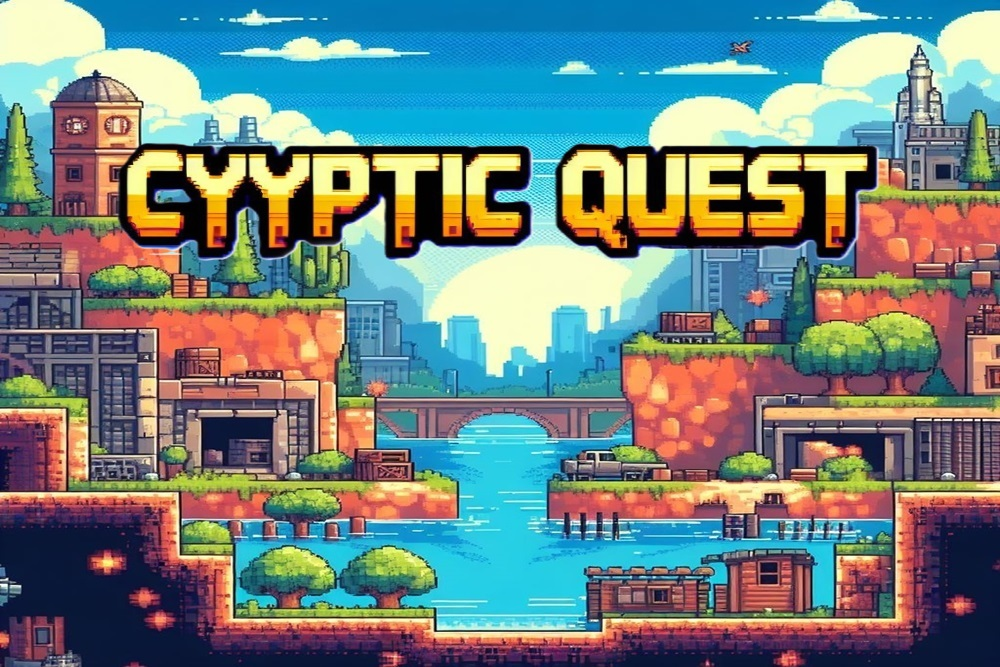
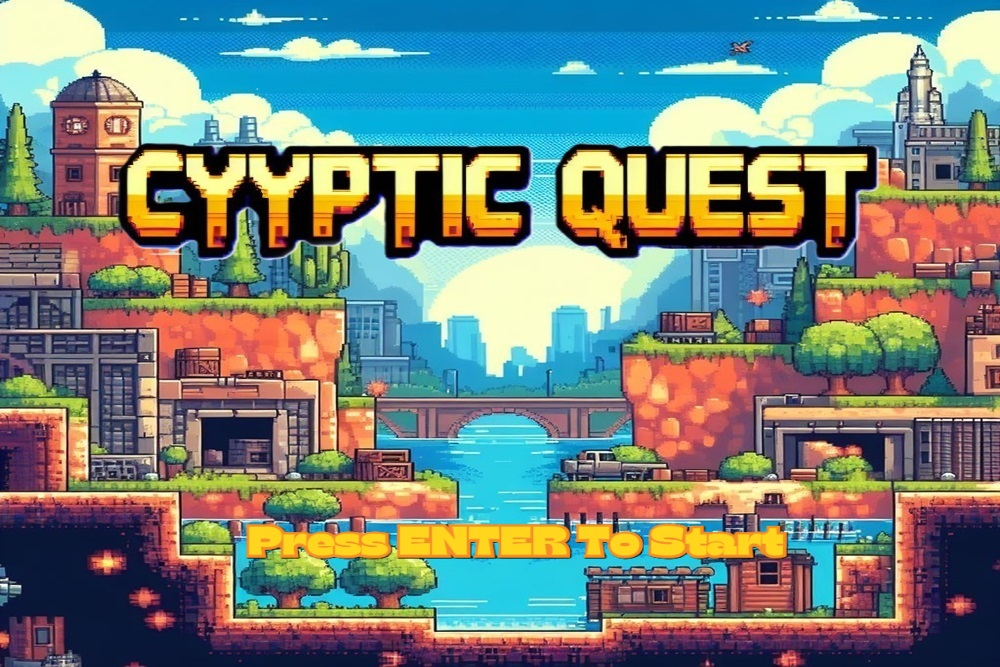
scrolling map update and improved loading screen

Changed region(s): [[0.248, 0.7796, 0.806, 0.8396]]

diff --git a/Sketch.java b/Sketch.java
@@ -12,15 +12,13 @@ public class Sketch extends PApplet {
   float mapPosY = fltPlayerY;
   int intSpeedX = 0;
   int intSpeedY = 0;
-  int intborderX = 200;
-  int intborderY = 160;
+  int intborderX = 300;
+  int intborderY = 220;
 
-  int[][] collisionMap1 = new int[3001][3001];
-  int[][] collisionMap2 = new int[3001][3001];
-  int[][] collisionMap3 = new int[3001][3001];
-
+  
   PImage imgPlayer;
   PImage imgBackground;
+  PImage imgPermBackground; 
   PImage imglvl1;
   PImage imglvl2;
 
@@ -47,6 +45,7 @@ public class Sketch extends PApplet {
 
     imgBackground = loadImage("loadingScreen.jpg");
     imglvl1 = loadImage("lvl1.png");
+    imgPermBackground = loadImage("permanentBackground.jpg");
 
   }
 
@@ -67,8 +66,8 @@ public class Sketch extends PApplet {
       if (boolInitialize) {
         fltPlayerX = 800;
         fltPlayerY = 300;
-        mapPosX = 800;
-        mapPosY = 300;
+        mapPosX = 500;
+        mapPosY = 200;
         boolInitialize = false;
       }
       movement();
@@ -92,23 +91,23 @@ public class Sketch extends PApplet {
 
     if (Math.abs(width - fltPlayerX) < intborderX) {
       mapPosX -= intSpeedX;
-      mapPosX = Math.max(width - 750, mapPosX);
+      mapPosX = Math.max(width - 850, mapPosX);
     }
     if (Math.abs(height - fltPlayerY) < intborderY) {
       mapPosY -= intSpeedY;
-      mapPosY = Math.max(height - 750, mapPosY);
+      mapPosY = Math.max(height - 800, mapPosY);
     }
     if (fltPlayerX < intborderX) {
       mapPosX -= intSpeedX;
-      mapPosX = Math.min(750, mapPosX);
+      mapPosX = Math.min(850, mapPosX);
     }
     if (fltPlayerY < intborderY) {
       mapPosY -= intSpeedY;
-      mapPosY = Math.min(750, mapPosY);
+      mapPosY = Math.min(800, mapPosY);
     }
-
+    image(imgPermBackground , 0 , 0 );
     image(imgMap, mapPosX - 750, mapPosY - 750);
-    image(imgPlayer, fltPlayerX - 25, fltPlayerY - 37);
+    image(imgPlayer, fltPlayerX - 30, fltPlayerY - 30);
   }
 
   /**
@@ -125,24 +124,24 @@ public class Sketch extends PApplet {
     if (boolUp) {
       intSpeedY = -4;
       fltPlayerY += intSpeedY;
-      fltPlayerY = Math.max(intborderY - 10, fltPlayerY);
+      fltPlayerY = Math.max(intborderY - 20, fltPlayerY);
     }
     if (boolLeft) {
       intSpeedX = -4;
       fltPlayerX += intSpeedX;
-      fltPlayerX = Math.max(intborderX - 10, fltPlayerX);
+      fltPlayerX = Math.max(intborderX - 20, fltPlayerX);
     }
 
     if (boolDown) {
       intSpeedY = 4;
       fltPlayerY += intSpeedY;
-      fltPlayerY = Math.min(height - intborderY + 10, fltPlayerY);
+      fltPlayerY = Math.min(height - intborderY + 20, fltPlayerY);
     }
 
     if (boolRight) {
       intSpeedX = 4;
       fltPlayerX += intSpeedX;
-      fltPlayerX = Math.min(width - intborderX + 10, fltPlayerX);
+      fltPlayerX = Math.min(width - intborderX + 20, fltPlayerX);
     }
 
   }
